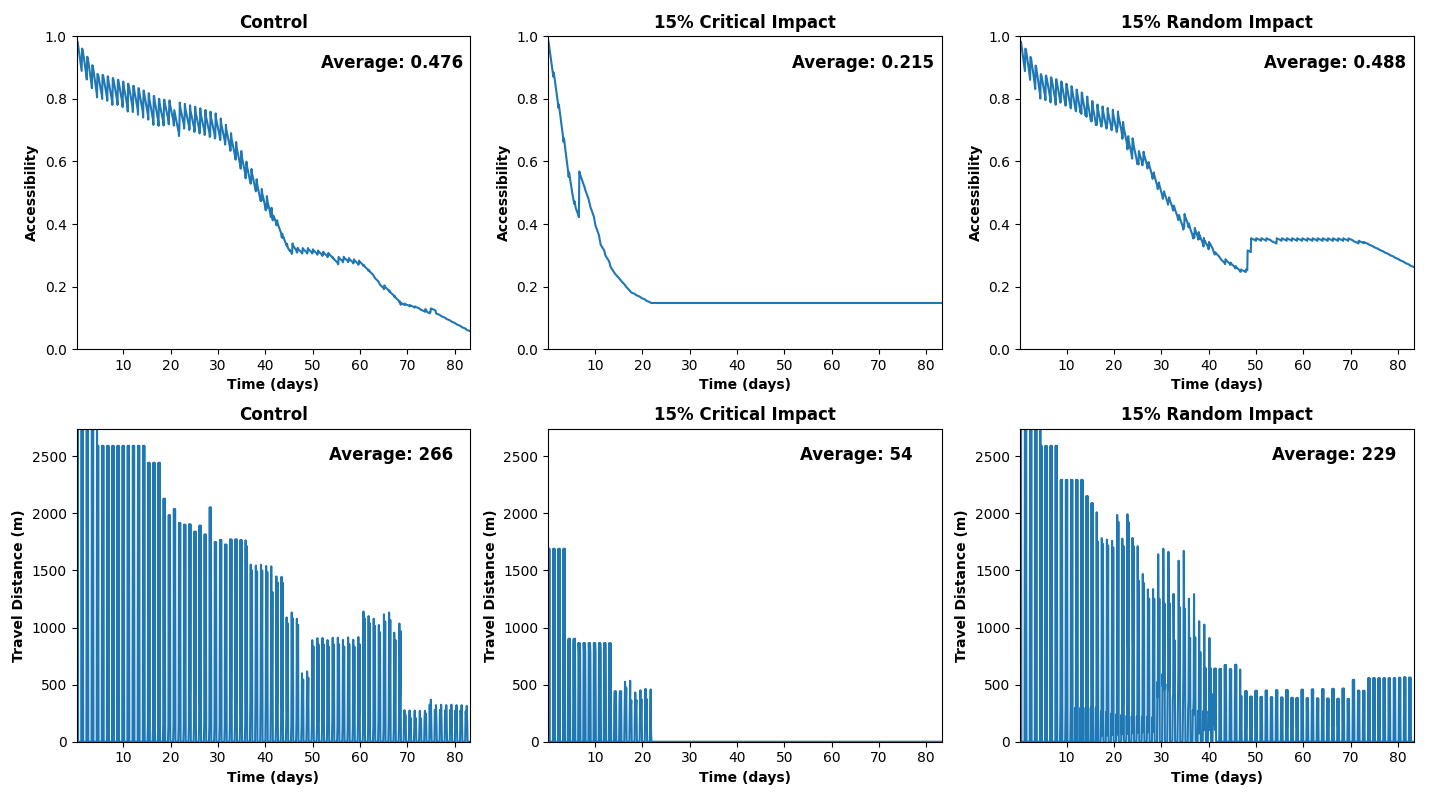
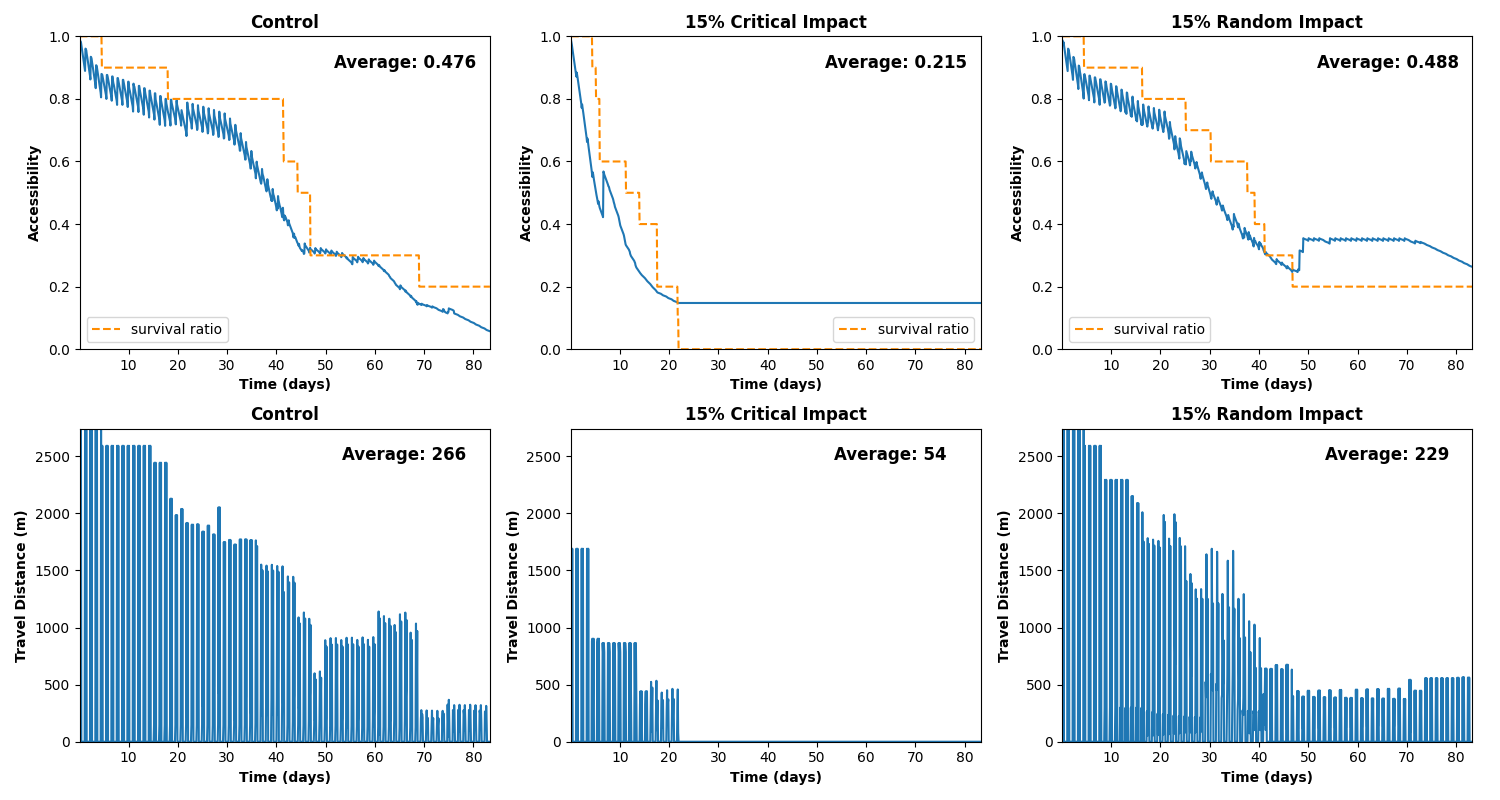
figure 4 now has survival ratio on top of accessibility plot

diff --git a/analysis/figure_4/figure_4.py b/analysis/figure_4/figure_4.py
@@ -23,6 +23,44 @@ titles = [
     '15% Random Impact',
 ]
 
+def alive_ratio_from_accessibility(measurement):
+    """
+    Compute alive ratio using absorbing death logic.
+
+    An agent is considered dead once A_i,t == 0, where A_i,t is the
+    geometric mean of food, water, and energy accessibility. Once dead,
+    the agent remains dead for all later time steps.
+    """
+    agent_access = measurement.accessibility.sum_resources(
+        agents="all",
+        resources="all"
+    )
+
+    agent_ids = list(agent_access.keys())
+    n_agents = len(agent_ids)
+    n_steps = measurement.accessibility.len
+
+    dead_agents = set()
+    alive_ratio = []
+    alive_count = []
+    death_count = []
+
+    for t in range(n_steps):
+        for agent_id in agent_ids:
+            if agent_id in dead_agents:
+                continue
+
+            if agent_access[agent_id][t] <= 0:
+                dead_agents.add(agent_id)
+
+        n_alive = n_agents - len(dead_agents)
+
+        alive_count.append(n_alive)
+        death_count.append(len(dead_agents))
+        alive_ratio.append(n_alive / n_agents)
+
+    return alive_ratio, alive_count, death_count
+
 results = []
 
 for i, name in enumerate(names):
@@ -36,13 +74,17 @@ for i, name in enumerate(names):
         name=name
     )
     measurement.load()
+    alive_ratio, alive_count, death_count = alive_ratio_from_accessibility(measurement)
     result = {
         'title': titles[i],
-        'accessibility': measurement.accessibility(),  # list
+        'accessibility': measurement.accessibility(),
         'average accessibility': measurement.accessibility.average(),
-        'travel distance': measurement.travel_distance(),  # list
+        'alive ratio': alive_ratio,
+        'alive count': alive_count,
+        'death count': death_count,
+        'travel distance': measurement.travel_distance(),
         'average travel distance': measurement.travel_distance.average(),
-        'delta_times': measurement.filter_times()  # list
+        'delta_times': measurement.filter_times()
     }
     results.append(result)
 
@@ -78,6 +120,19 @@ def show(results):
         axes[0, i].set_ylim(min_access, max_access)
         axes[0, i].text(0.62, 0.9, f'Average: {result["average accessibility"]:.3f}',
                         transform=axes[0, i].transAxes, fontsize=12, fontweight='bold')
+        
+        
+        # Add alive fractions to the same plot
+        axes[0, i].plot(
+            times_in_days,
+            result['alive ratio'],
+            color='darkorange',   # explicitly set
+            linestyle='--',
+            label='survival ratio'
+        )
+
+        axes[0, i].legend()
+        
         
         # Travel distance plot in the second row
         axes[1, i].plot(times_in_days, result['travel distance'])